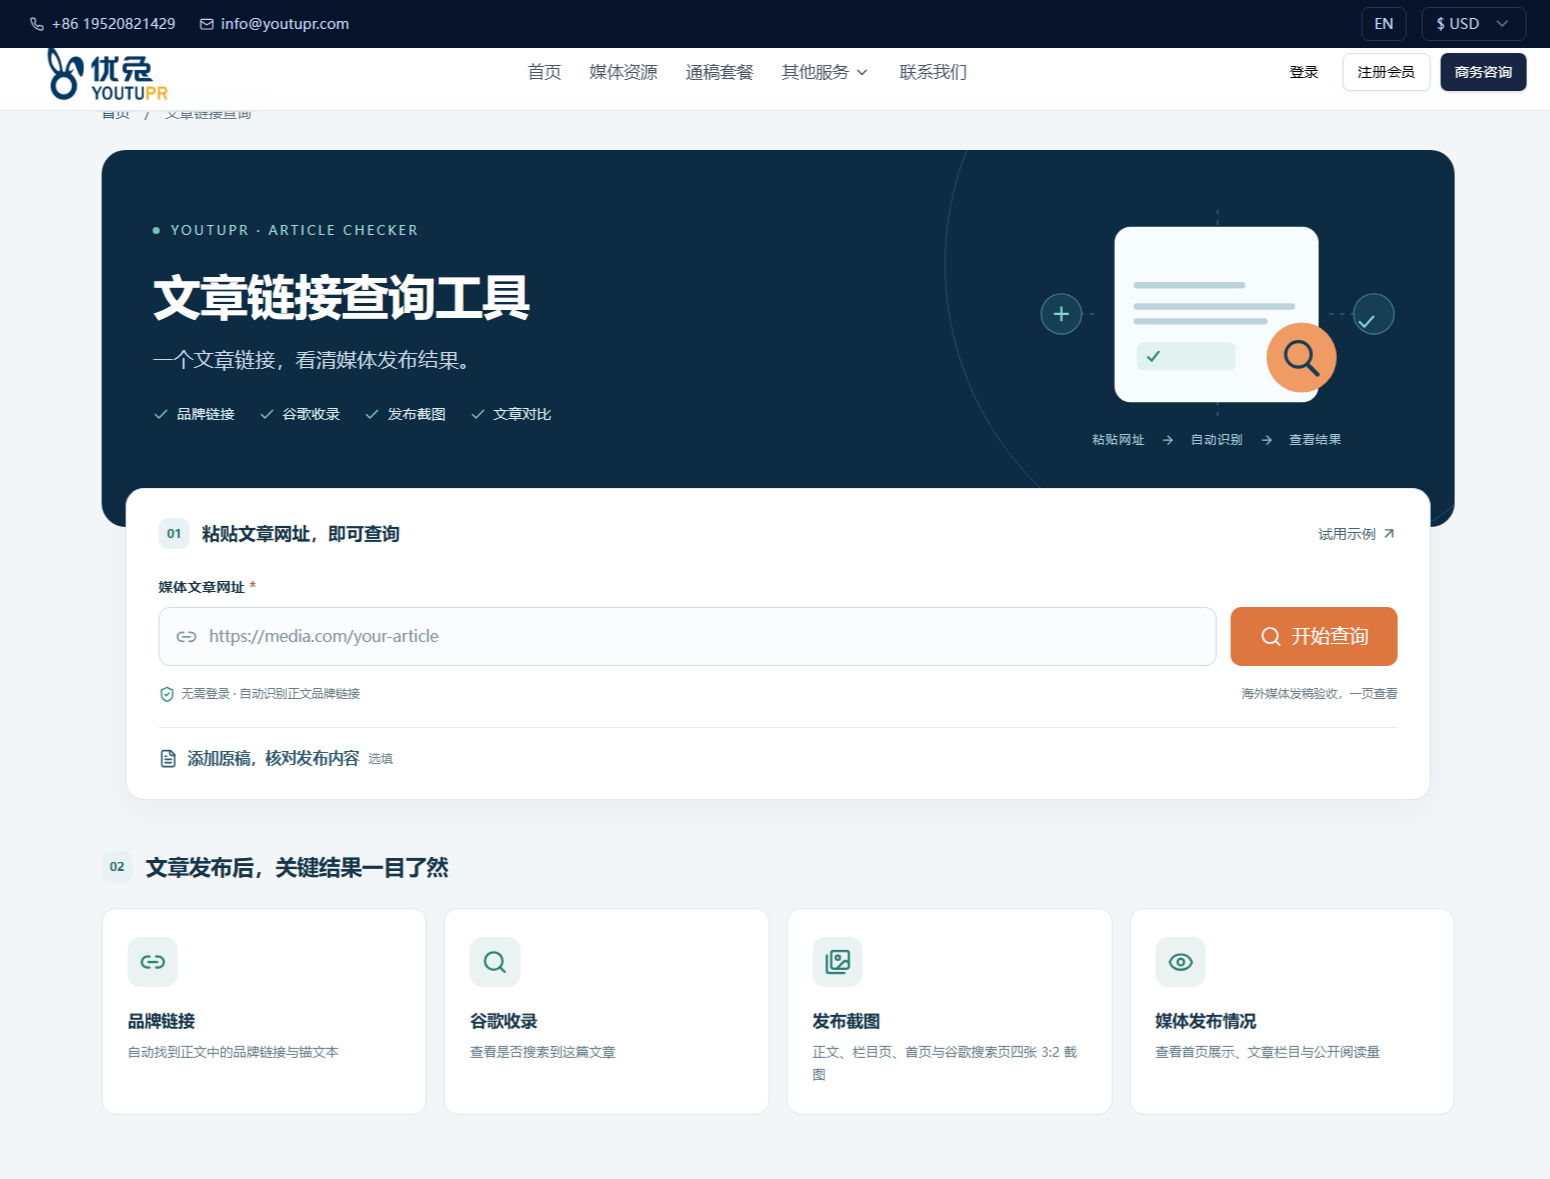
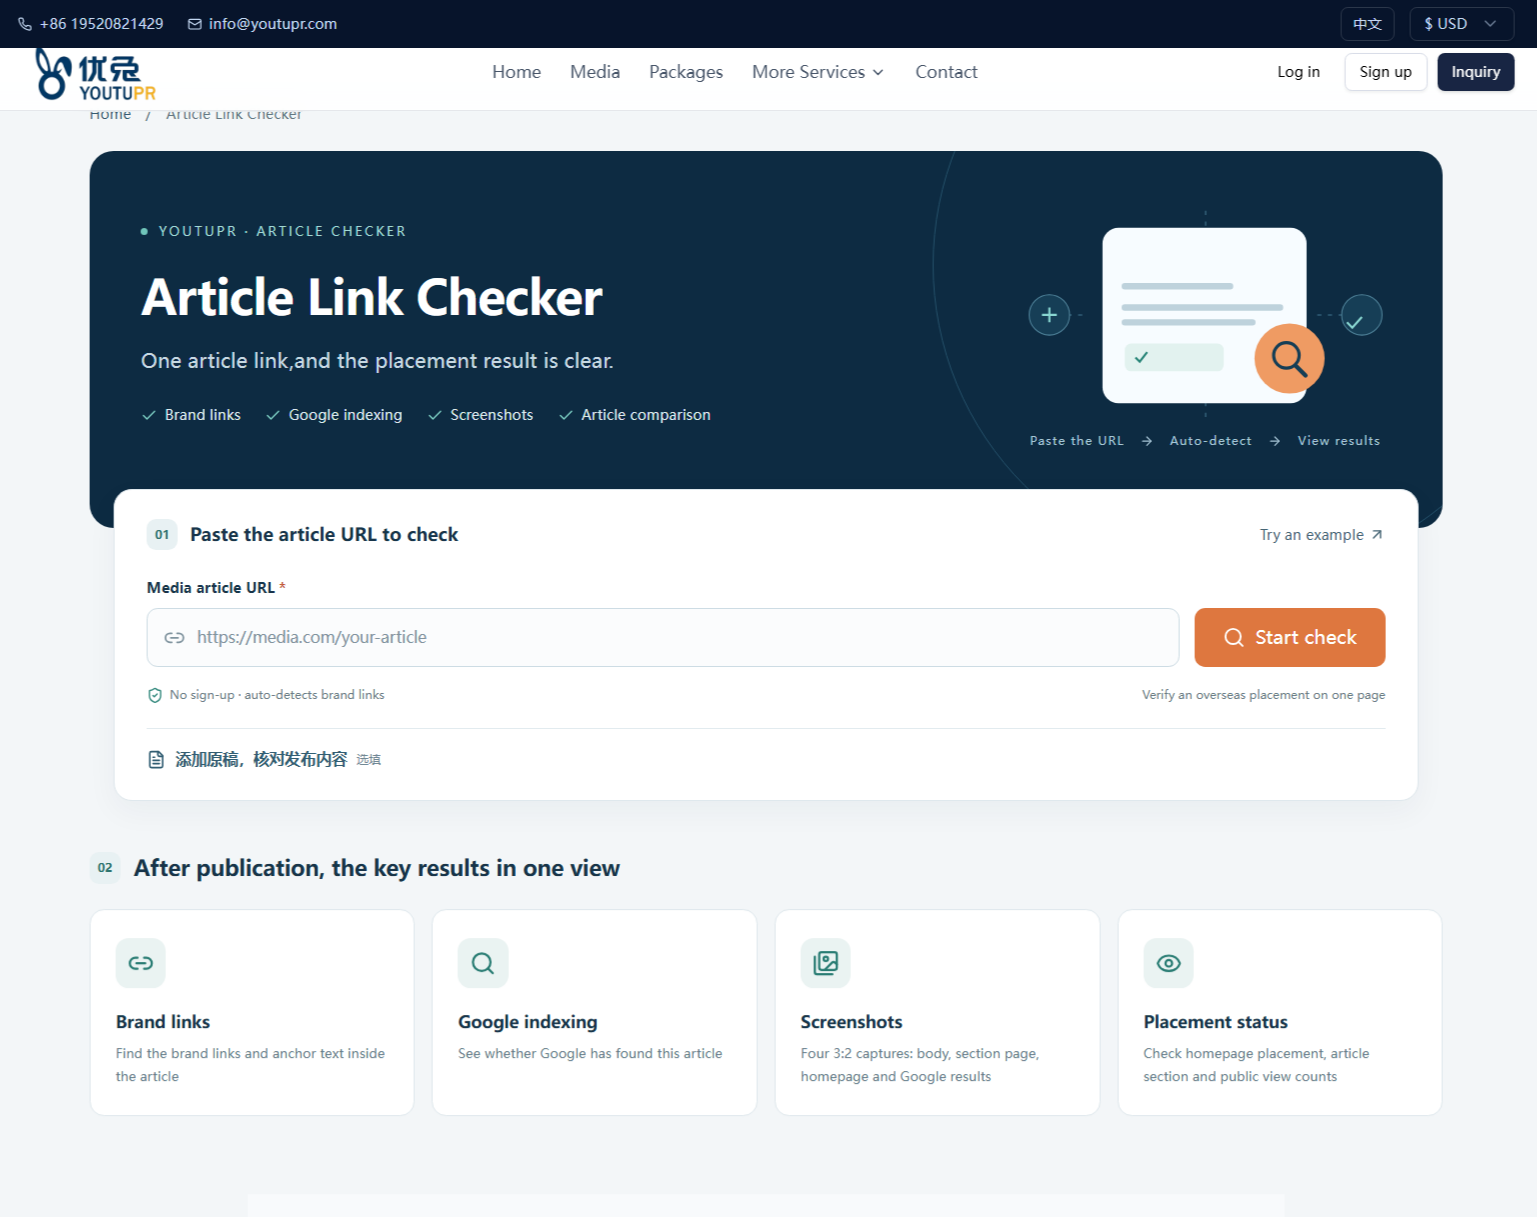
docs: switch cover screenshot to the English hosted UI

diff --git a/README.md b/README.md
@@ -1,8 +1,8 @@
 # Article Link Checker
 
-![在线版界面](docs/official.png)
+![在线版界面（英文）](docs/official.png)
 
-<sub>上图是在线托管版（<https://www.youtupr.com/tools/article-link-checker>，带品牌样式）的界面；本地部署后功能一致、界面更简洁，见下方「快速开始」。</sub>
+<sub>上图是在线托管版（<https://www.youtupr.com/tools/article-link-checker>，英文界面、带品牌样式）的截图；本地部署后功能一致、界面更简洁，见下方「快速开始」。</sub>
 
 粘贴一篇海外媒体文章的网址，一次看清五件事：**正文里的品牌链接与锚文本、有没有被谷歌收录、媒体首页有没有入口、页面实际长什么样、发布版和你的原稿差在哪**。最后导出一个压缩包：图文报告 + 截图原图 + 带修订模式的 Word。
 

diff --git a/README.en.md b/README.en.md
@@ -1,6 +1,6 @@
 # Article Link Checker
 
-![Hosted version](docs/official.png)
+![Hosted version — English UI](docs/official.png)
 
 <sub>The screenshot above is the hosted version (<https://www.youtupr.com/tools/article-link-checker>, branded UI). The self-hosted build below ships the same features with a plainer interface — see Quick start.</sub>
 
